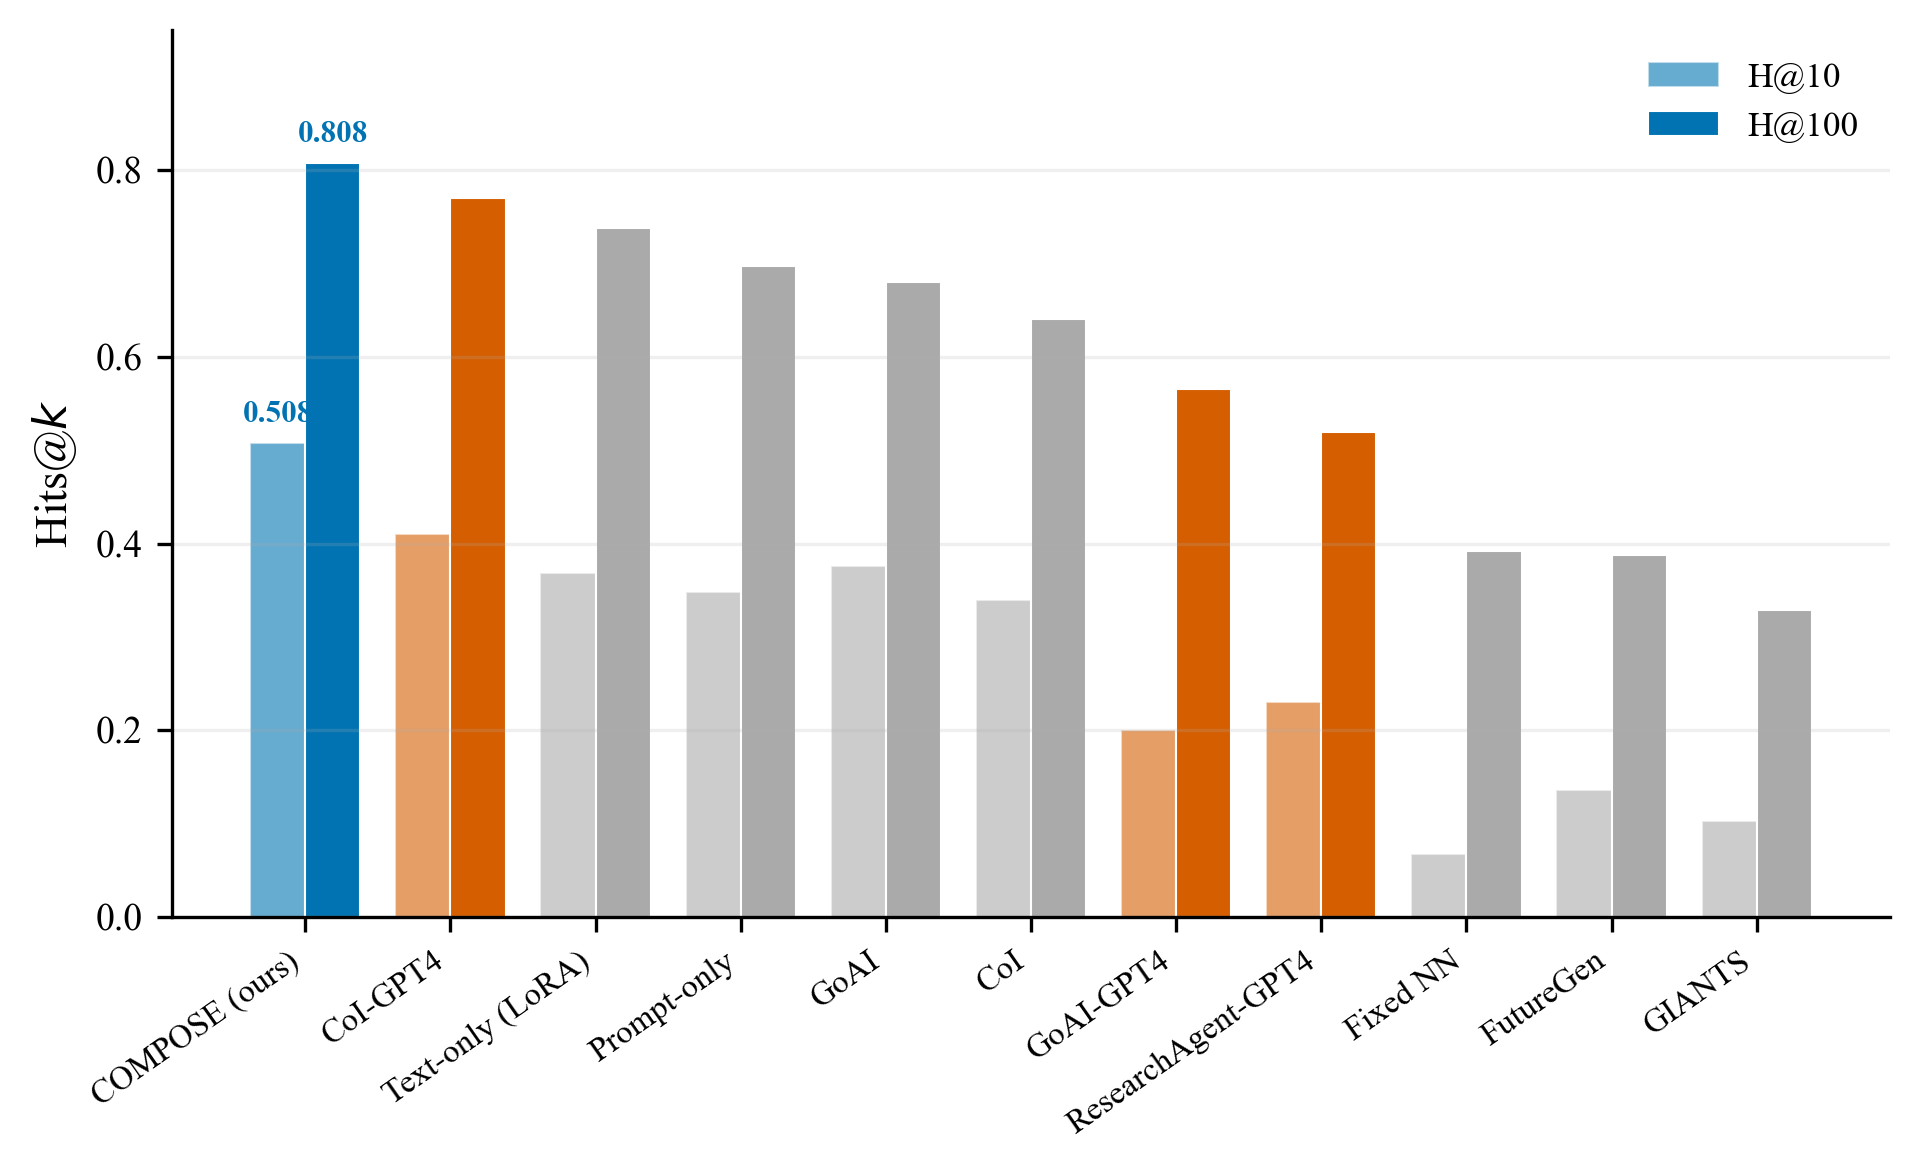
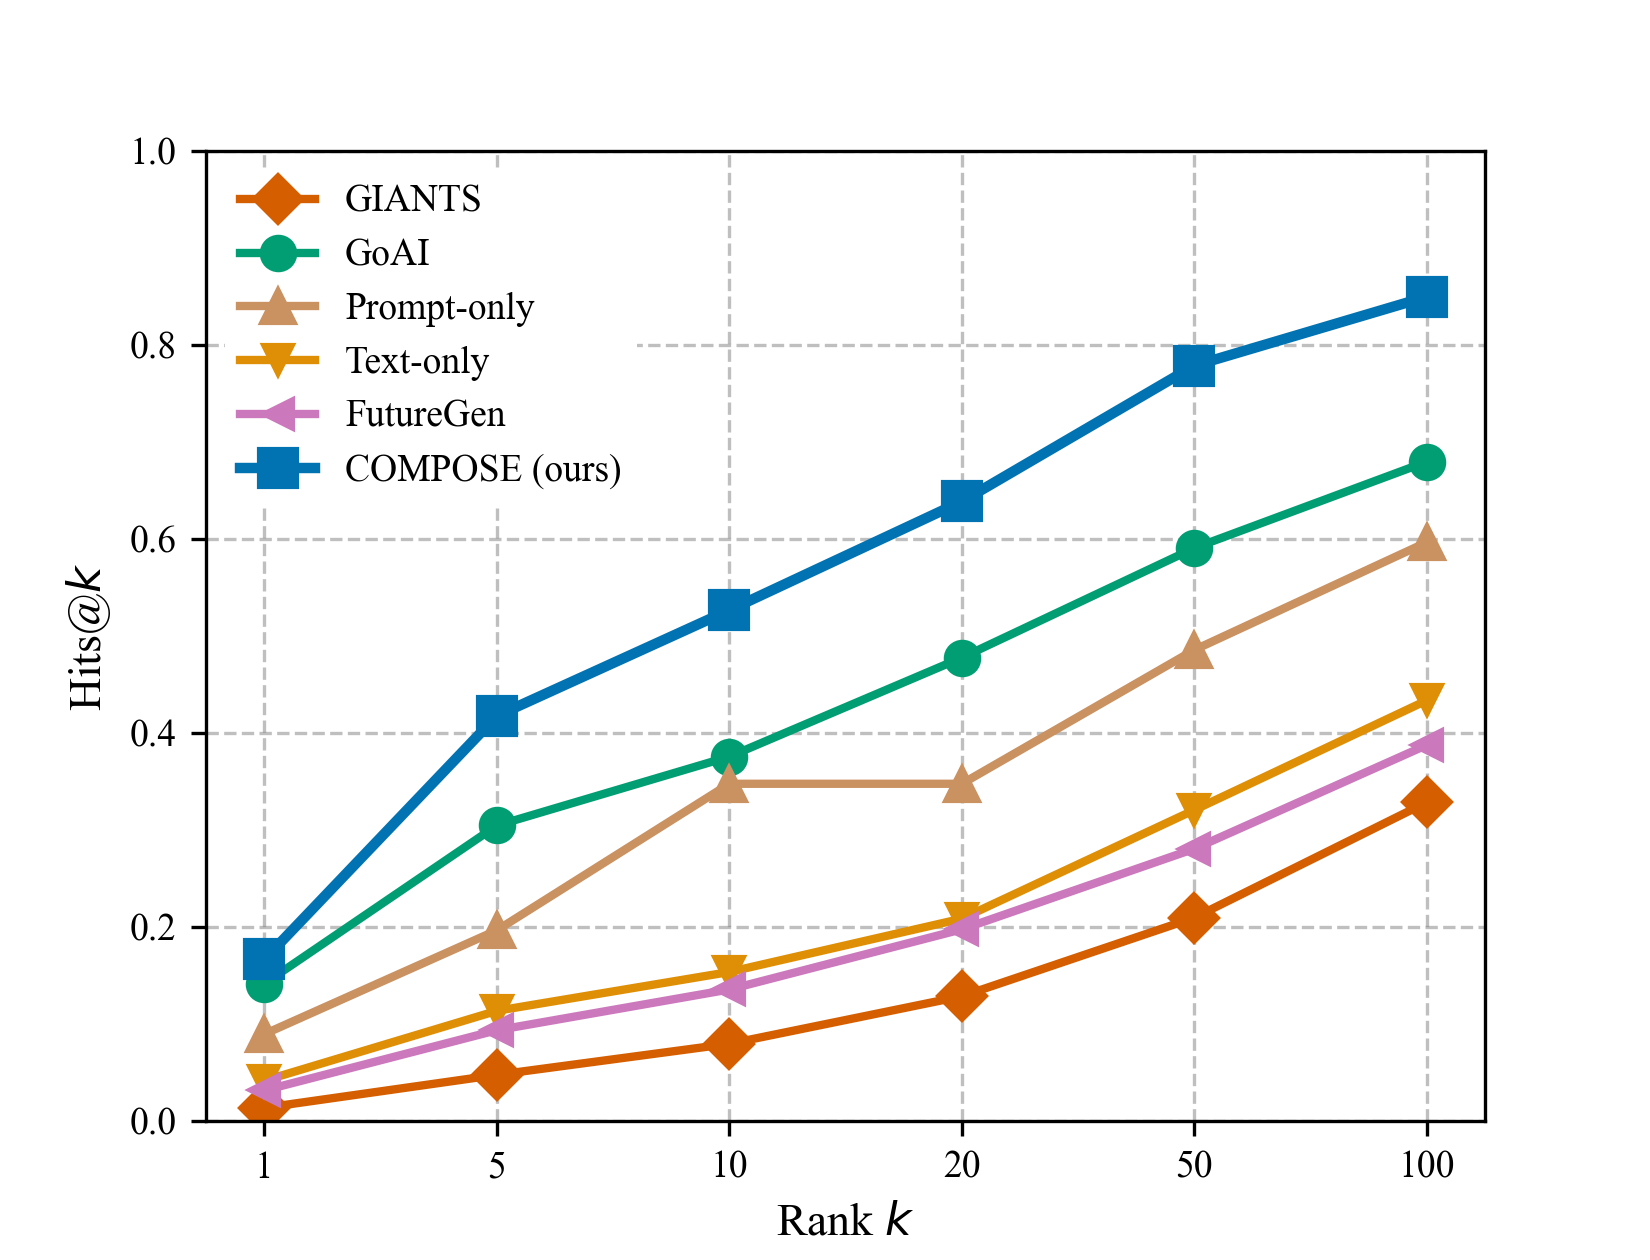
Fix all result numbers, side-by-side training figure panels, colorblind H@k curve
- Main table: COMPOSE H@10=0.508 (full test set)
- Ablation table: correct 200-sample subset numbers (Full graph H@10=0.750)
- Replace stacked training figure with side-by-side panel_a / panel_b
- Replace bar chart hk_curve with colorblind-safe line curve from paper

diff --git a/index.html b/index.html
@@ -154,17 +154,22 @@
 <section class="hero teaser">
   <div class="container is-max-desktop">
     <div class="hero-body">
-      <div class="has-text-centered">
-        <div style="border:1px solid rgba(0,0,0,0.10); border-radius:14px; padding:1rem;">
-          <img src="static/images/fig_full.png" alt="COMPOSE overview" class="mx-auto" style="width:100%;height:auto;">
+      <div style="border:1px solid rgba(0,0,0,0.10); border-radius:14px; padding:1rem;">
+        <div style="display:flex; gap:0.3rem; align-items:flex-start;">
+          <div style="flex:1;">
+            <img src="static/images/panel_a.png" alt="COMPOSE data construction" style="width:100%;height:auto;">
+          </div>
+          <div style="flex:1;">
+            <img src="static/images/panel_b.png" alt="COMPOSE model architecture" style="width:100%;height:auto;">
+          </div>
         </div>
       </div>
       <p class="tw-text-left tw-text-base tw-text-gray-600 tw-mt-4">
-        <b>Overview of COMPOSE.</b> Given an anchor paper, COMPOSE builds a scientific citation subgraph G<sub>s</sub>
-        (E5-embedded references) and a Mathlib formal theorem subgraph G<sub>f</sub>
-        (DeepSeek-Math-embedded theorems). A dual GNN encoder fuses both via bidirectional cross-attention and
-        conditions a DeepSeek-Math-7B decoder to generate a predicted future theorem. The claim is then used to
-        retrieve the actual future paper from a 47K pool.
+        <b>Overview of COMPOSE.</b> (<b>Left</b>) Data construction: given an anchor paper and its citation graph,
+        we build a scientific graph of paper and theorem nodes, then align informal theorems to Mathlib4 to construct
+        a formal dependency graph. (<b>Right</b>) Model architecture: the scientific and formal graphs are encoded by
+        dedicated GNNs, fused via cross-attention (&oplus;), and used to condition a DeepSeek-Math-7B decoder that
+        generates a predicted future research claim, which is then used to retrieve the actual future paper from a 47K pool.
       </p>
     </div>
   </div>
@@ -357,9 +362,8 @@
         <h2 class="title is-3">Results</h2>
         <div class="content has-text-justified">
           <p>
-            We evaluate on the confidence-stratified subset, where each anchor paper has at least one
-            high-confidence Mathlib match — the regime where using both encoders matters most. COMPOSE achieves
-            H@10 = <strong>0.505</strong>, compared to 0.410 for CoI-GPT4 and 0.080 for GIANTS. The Gap column
+            We evaluate on the full test set (47K pool). COMPOSE achieves
+            H@10 = <strong>0.508</strong>, compared to 0.410 for CoI-GPT4 and 0.080 for GIANTS. The Gap column
             measures cosine similarity to the target minus cosine to 500 random negatives.
           </p>
         </div>
@@ -379,7 +383,7 @@
               <tbody>
                 <tr class="has-background-primary-light">
                   <td><strong>COMPOSE (ours)</strong></td>
-                  <td class="has-text-centered"><strong>0.505</strong></td>
+                  <td class="has-text-centered"><strong>0.508</strong></td>
                   <td class="has-text-centered"><strong>0.808</strong></td>
                   <td class="has-text-centered"><strong>0.240</strong></td>
                 </tr>
@@ -434,7 +438,7 @@
         </div>
 
         <div class="box">
-          <h3 class="title is-5">Ablation Study</h3>
+          <h3 class="title is-5">Ablation Study <span class="tw-text-sm tw-font-normal tw-text-gray-500">(confidence-stratified 200-sample subset, 47K pool)</span></h3>
           <div class="table-container">
             <table class="table is-bordered is-narrow is-fullwidth tw-text-sm">
               <thead class="has-background-grey-lighter">
@@ -448,21 +452,21 @@
               <tbody>
                 <tr class="has-background-primary-light">
                   <td><strong>Full graph (ours)</strong></td>
-                  <td class="has-text-centered"><strong>0.505</strong></td>
-                  <td class="has-text-centered"><strong>0.808</strong></td>
-                  <td class="has-text-centered"><strong>0.235</strong></td>
-                </tr>
-                <tr>
-                  <td>Paper-graph only (no G<sub>f</sub>)</td>
-                  <td class="has-text-centered">0.390</td>
-                  <td class="has-text-centered">0.695</td>
-                  <td class="has-text-centered">0.164</td>
+                  <td class="has-text-centered"><strong>0.750</strong></td>
+                  <td class="has-text-centered"><strong>0.845</strong></td>
+                  <td class="has-text-centered"><strong>0.201</strong></td>
                 </tr>
                 <tr>
                   <td>Formal-graph only (no G<sub>s</sub>)</td>
-                  <td class="has-text-centered">0.135</td>
-                  <td class="has-text-centered">0.360</td>
-                  <td class="has-text-centered">0.073</td>
+                  <td class="has-text-centered">0.510</td>
+                  <td class="has-text-centered">0.810</td>
+                  <td class="has-text-centered">0.141</td>
+                </tr>
+                <tr>
+                  <td>w/o stage-1 pretraining</td>
+                  <td class="has-text-centered">0.240</td>
+                  <td class="has-text-centered">0.505</td>
+                  <td class="has-text-centered">0.093</td>
                 </tr>
                 <tr>
                   <td>w/o bidirectional fusion</td>
@@ -471,17 +475,16 @@
                   <td class="has-text-centered">0.090</td>
                 </tr>
                 <tr>
-                  <td>w/o stage-1 pretraining</td>
-                  <td class="has-text-centered">0.240</td>
-                  <td class="has-text-centered">0.505</td>
-                  <td class="has-text-centered">0.093</td>
+                  <td>Paper-graph only (no G<sub>f</sub>)</td>
+                  <td class="has-text-centered">0.075</td>
+                  <td class="has-text-centered">0.260</td>
+                  <td class="has-text-centered">0.043</td>
                 </tr>
               </tbody>
             </table>
           </div>
           <p class="tw-text-sm tw-text-gray-500 tw-mt-3">
-            Removing G<sub>f</sub> drops H@10 from 0.505 to 0.390. Removing bidirectional fusion drops it
-            further to 0.195, showing that cross-encoder interaction — not just having both encoders — drives the gain.
+            Removing G<sub>f</sub> drops H@10 from 0.750 to 0.075 — the largest single drop — confirming that Mathlib formal structure is the primary driver. Removing bidirectional fusion drops it to 0.195, showing that cross-encoder interaction is essential.
           </p>
         </div>
       </div>